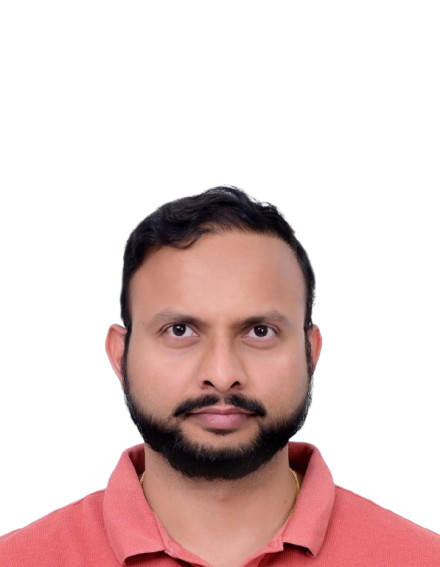
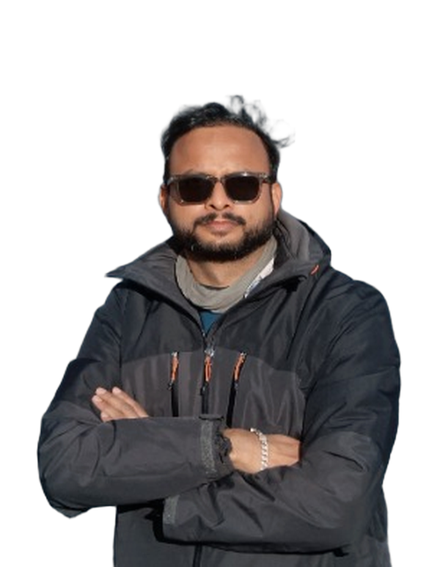
feat: update hero profile image and refactor styling for responsive presentation

diff --git a/index.html b/index.html
@@ -155,7 +155,7 @@
       </div>
       <div class="hero__media reveal">
         <div class="hero__photo">
-          <img src="images/profile-cutout.png" alt="Portrait of Rohit Roy" width="440" height="567"
+          <img src="images/profile.jpg" alt="Portrait of Rohit Roy" width="520" height="520"
             loading="eager" />
         </div>
       </div>

diff --git a/assets/css/site.css b/assets/css/site.css
@@ -303,12 +303,9 @@ a:hover {
 }
 
 .hero__photo img {
-  position: absolute;
-  left: 50%;
-  bottom: -2%;
-  transform: translateX(-50%);
-  height: 110%;
-  width: auto;
+  width: 100%;
+  height: 100%;
+  object-fit: cover;
   display: block;
 }
 
